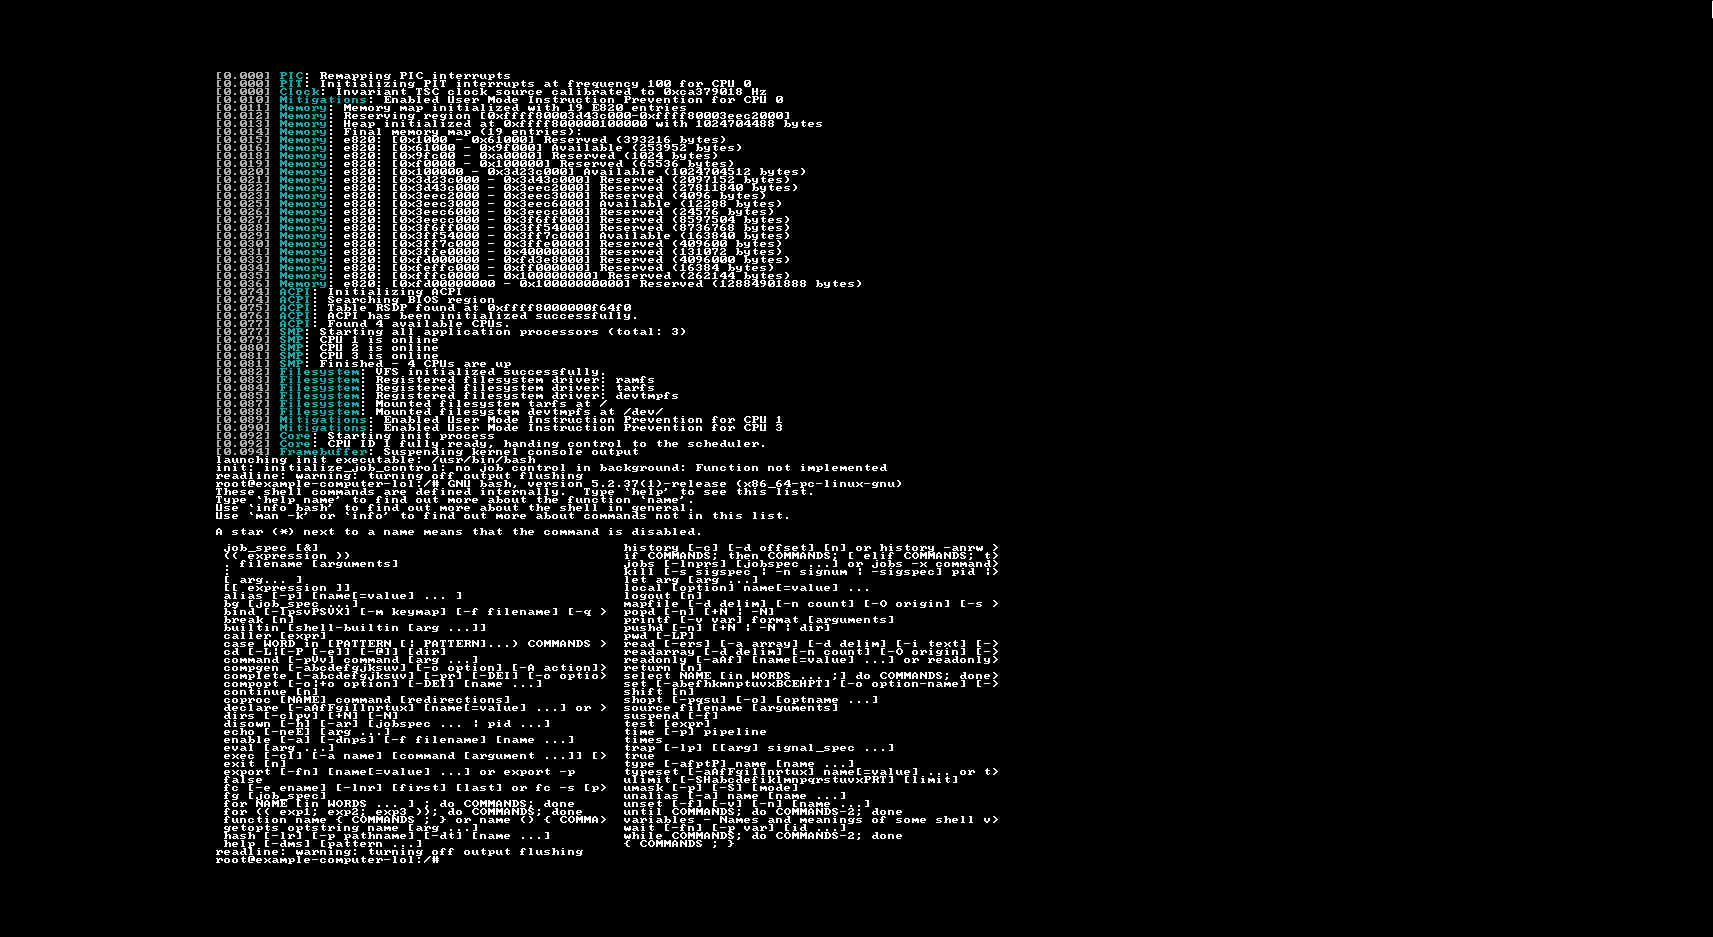
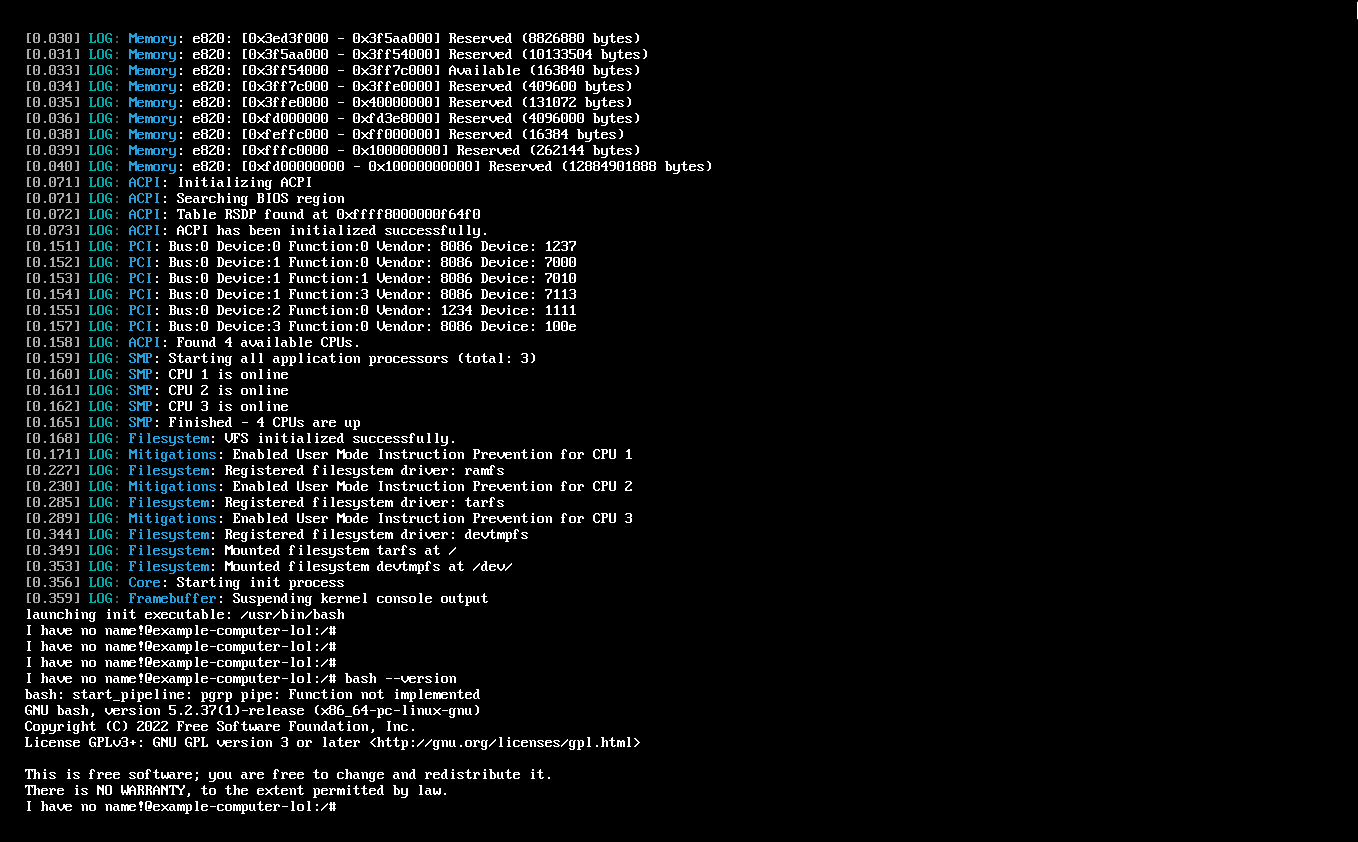
docs: improve screenshot and features sections

Changed region(s): [[0.0, 0.0309, 0.5876, 0.9881]]

diff --git a/README.md b/README.md
@@ -8,11 +8,12 @@ Utopia is a (probably good) 64-bit operating system kernel.
     </a>
 </div>
 
-## Features
+## Notable features
 
 - runs quite well single-threaded Linux userspace static/dynamic executables
-- has SMP 
-- kinda modular: supports multiple boot protocols (Multiboot1, Limine) and multiple CPU architectures (x86_64, RISC-V 64)
+- has SMP (and utilizes that)
+- supports running more than one process
+- kinda modular: supports multiple boot protocols (Multiboot1, Limine), multiple syscall ABIs and multiple CPU architectures (x86_64, RISC-V 64) 
 
 That's it lol. Please note that this is an hobby operating system kernel and probably shouldn't be used for anything other than testing purposes, it also lacks a lot of features.
 
